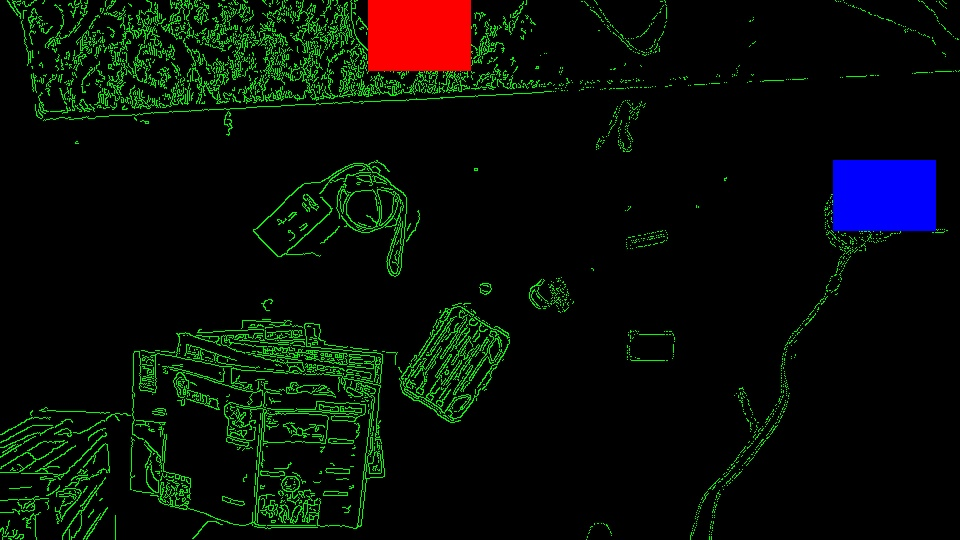
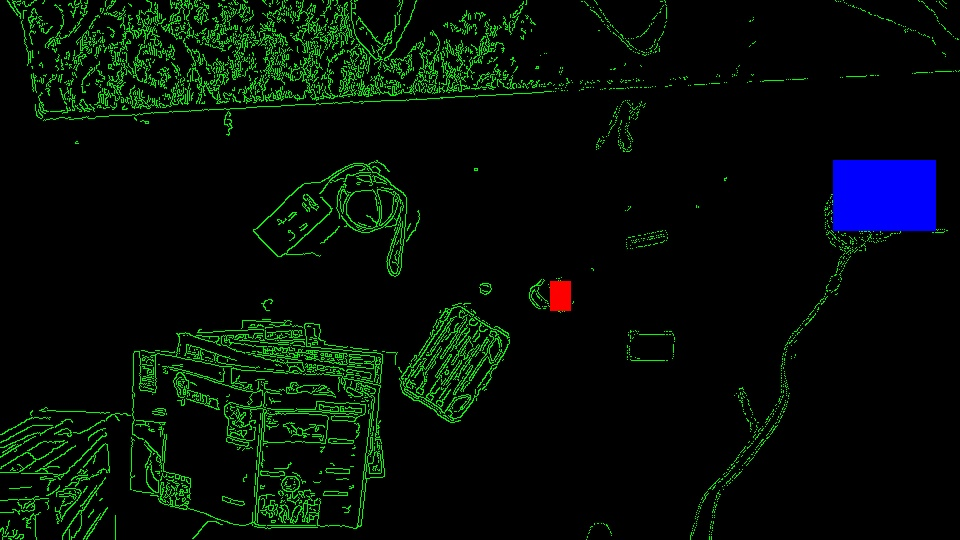
Add files via upload
Found full extracted img

Changed region(s): [[0.375, 0.0, 0.5, 0.1481], [0.5625, 0.5037, 0.5938, 0.5926]]

diff --git a/recognize_object.py b/recognize_object.py
@@ -42,7 +42,7 @@ def main():
     res=cv.matchTemplate(Source_img,End_img,method)
     min_val,max_val,min_loc,max_loc=cv.minMaxLoc(res)
     top_left_end=max_loc
-    bottom_right_end=top_left_end[0]+len(Robot_img[0]),top_left_end[1]+len(Robot_img)
+    bottom_right_end=top_left_end[0]+len(End_img[0]),top_left_end[1]+len(End_img)
 
     canny_img=imread('picture_canny.jpg')
     
@@ -58,9 +58,9 @@ def main():
             else:
                  canny_img_array[i][j]=0
     new_img_array=np.asarray(new_img,dtype="int32")
-    print(new_img_array)
-    print('x')
-    print(canny_img_array)
+    #print(new_img_array)
+    #print('x')
+    #print(canny_img_array)
     for i in range(0,len(new_img_array)):
         for j in range(0,len(new_img[0])):
             if new_img_array[i][j][0]==0 and new_img_array[i][j][2]==0:
@@ -69,9 +69,17 @@ def main():
                 #new_img_array[i][j]=canny_img_array[i][j]
     
     cv.imwrite('tmp.jpg',new_img_array)
-    new_img=imread('tmp.jpg') 
-    cv.imshow('img',new_img)
+    new_img=imread('tmp.jpg')
+
+
+
+    cv.imshow('robot_template',imresize(Robot_img,(len(Robot_img)*2,len(Robot_img[0])*2)))
+    cv.imshow('end_template',imresize(End_img,(len(End_img)*2,len(End_img[0])*2)))
+    cv.imshow('original_img',Source_img)
+    cv.imshow('extracted_img',new_img)
+
     cv.waitKey(0)
+    imsave('extracted.jpg',new_img)
     #print(result_columns)
     #print(result_rows)
     #cv.matchTemplate(img
